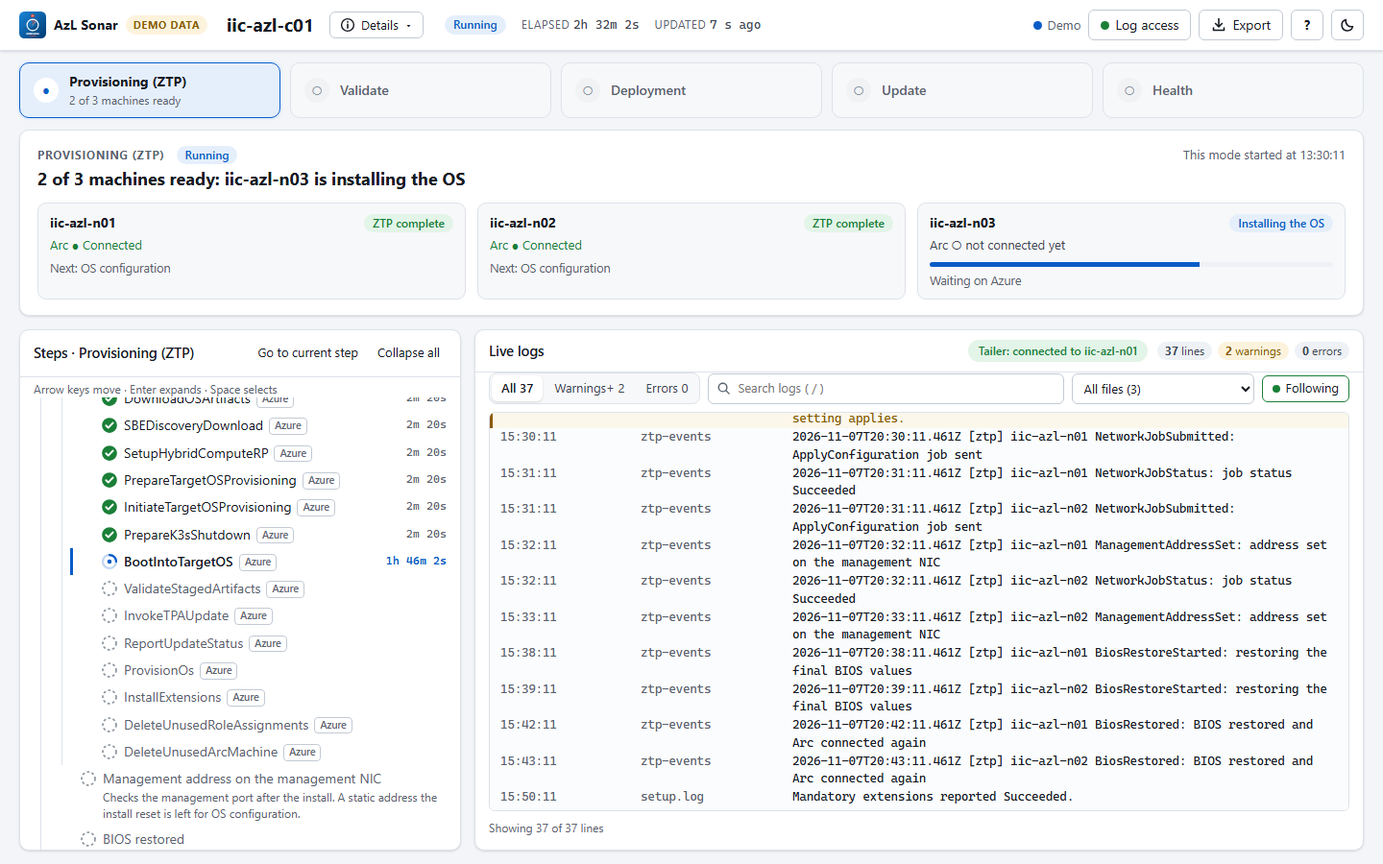
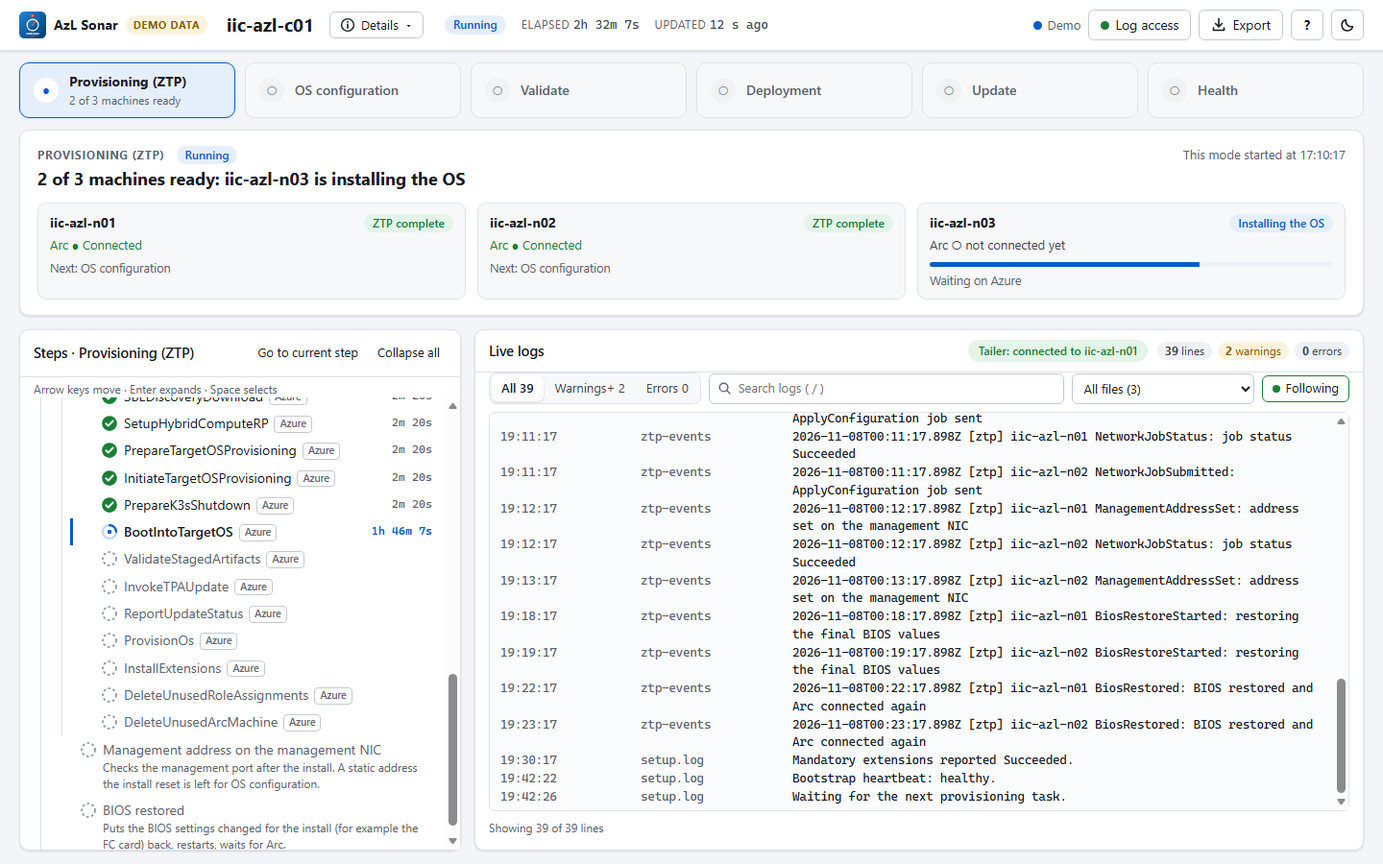
docs(osconfig): the OS configuration mode, method and versions, guarded change, domain join, account per node
stages.md gets an OS configuration section; run, tour, how-it-works, start-here, README and design describe the sixth mode; screenshots tour-osconfig, tour-main and tour-narrow from headless Edge.

diff --git a/docs/stages.md b/docs/stages.md
@@ -103,14 +103,67 @@ The screens below use the page's own demo data (`?demo=1&route=simplified`); see
 
 **In Sonar:** `StageCompleted` for Handoff, and the end of the run on the page: when every machine is Provisioned, its Network step succeeded and its Restore step succeeded or is not applicable, each card reads **ZTP complete** with *Next: OS configuration*, the Provisioning tile reads *ZTP complete*, and the summary says "ZTP is complete: all N machines are provisioned. Next: OS configuration". A link under the header opens the OS configuration guide.
 
-**What to do:** nothing in Sonar. ZTP's job is over. Start OS configuration (OEM drivers, `C:\SBE`, DHCP off, DNS and time, the deployment admin), then Validate. Sonar stays at **ZTP complete** until you start the ARM Validate.
+**What to do:** nothing in Sonar. ZTP's job is over. Start OS configuration (OEM drivers, `C:\SBE`, DHCP off, DNS and time, the deployment admin), then Validate. Sonar stays at **ZTP complete** until the OS configuration run starts and writes its events (the **OS configuration** mode takes over), then Validate.
+
+## OS configuration
+
+![The OS configuration mode: a ZTP machine that converged after a retry, an ISO machine whose drivers step failed, and a ZTP machine still applying](images/tour-osconfig.png)
+
+**The toolkit does:** [azurelocal-toolkit's](https://github.com/AzureLocal/azurelocal-toolkit) `Invoke-AzureLocalOsConfiguration.ps1` configures the operating system of every node after ZTP (or an ISO install) and before Validate: remote management, the management address, DNS, time, the computer name, the domain join, unused adapters, the local administrator, MPIO and the SAN checks, the storage wipe, the SBE package and the OEM drivers, and, for an ISO machine, the Azure Arc registration. It plans first (read only), applies node by node and then proves each node matches the master file. While it runs it appends what it does to the OS configuration event file, `os-configuration-events.jsonl` (the feed is described in the toolkit's [OS configuration guide](https://github.com/AzureLocal/azurelocal-toolkit/blob/main/docs/os-configuration-and-arm-deployment.md#the-event-feed-what-the-run-tells-a-viewer)).
+
+**How to run Sonar for it:** point Sonar at that file and start it where the file is (or where its folder is shared).
+
+```powershell
+Connect-AzAccount -Tenant <tenant-id>
+./Start-AzlSonar.ps1 -InfrastructureFile ./infrastructure.yml
+```
+
+With the master file the file is `<provisioning.simplified.evidence_path>/os-configuration-events.jsonl`, next to `ztp-events.jsonl`. If the toolkit run was given `-EventLogPath`, or you use a config file, set [`osConfigEventsPath`](./config.md) (`Set-AzlSonarConfig -Key osConfigEventsPath -Value <file>`). Sonar tails the file every 2 seconds, read-only. Without it the **OS configuration** tile stays grey and says how to get the data.
+
+**In Sonar:** the **OS configuration** tile (between **Provisioning** and **Validate**), the **OS configuration** mode and its lines in the log pane (file `os-config-events`, each tagged `[osconfig]`).
+
+- **The summary box.** The run in one sentence (*1 of 3 machines converged*), then the run state, the machines converged, the wipe list (*pending* until the listed machines have cleared their storage) and the mode (Plan or Apply). One card per machine: its name, a state chip, the method chip and the transport, the step it is on, the retries and restarts, the account that reads its logs and any warning.
+- **The Steps box.** One row per machine with its method, transport, versions and the guarded network change; under it, its steps in the order the toolkit runs them: remote management, network, DNS, time, computer name, domain join, unused adapters, local administrator, MPIO, SAN verification, clear storage, SBE package, OEM drivers and Azure Arc registration. Each step has a stage chip and the toolkit's own text: what it found and, for a change, *current -> desired*. A click on a step shows only that machine's lines for that step in the log pane. A step that runs as an Arc Run Command carries the **Azure** badge; under the machine, Sonar shows the run command it reads from Azure (`machines/{name}/runCommands`, read-only) with its state and age, and warns when one has been *Creating* for more than 10 minutes.
+
+**What the stages mean.**
+
+| Stage | Meaning |
+| --- | --- |
+| *Waiting* | The run has not reached this step on this machine. |
+| *Planned* | The plan found a difference (`StepPlanned`, action Change); the *current* and *desired* values are in the text. Nothing was changed. |
+| *OK* | The plan found nothing to change. |
+| *Changing* | The apply is changing it now (`StepApplying`). |
+| *Applied* | The apply reports it done (`StepApplied`); the verification pass has not confirmed it yet. |
+| *Verified* | The verification pass found the step matching the master file (`StepVerified`). |
+| *Failed* | The apply or the verification pass failed on it (`StepFailed`), with the toolkit's reason. |
+| *Blocked* | The plan cannot go on without you (for example leftover storage with the wipe off). |
+| *Not applicable* | The step does not apply, with the reason (*not selected with -Step*, *no SBE bundle*, *the storage wipe is off*, *the identity design is local*). |
+| *Verify only: OK* | ZTP did this step (the computer name, the Azure Arc registration); the run checks it and does not change it. |
+
+A machine is **converged** when the toolkit reports `NodeConverged` for it. The mode is **ready** when every machine has converged: the tile reads *3 of 3 converged* and the summary says *Next: Validate*. It is information only: Sonar blocks nothing, and **Provisioning** never stays *running* because of OS configuration. Validate says it starts after OS configuration has converged on every machine.
+
+**Which method, which versions.** Each machine says how it was installed: **ZTP** (provisioned by simplified machine provisioning) or **ISO** (installed by hand). Before the run has resolved it, Sonar shows the method it expects (from `scenario.os_install` and from whether ZTP events exist for the machine) marked *expected*. When the declaration and the evidence disagree the chip says *differs from the file* and a warning names both; the evidence wins, as it does in the toolkit. The step list follows the method: on a ZTP machine the computer name and the Arc registration are *verify only*, on an ISO machine they are real steps. A mixed cluster shows both side by side. The machine row and **Details** show the versions the toolkit reported: the OS (caption, version, build) and the computer name the node reported, the SBE (publisher, family, version, package and how it reaches the node), the master file's `schema_version` and the toolkit's own version, and the transport (Arc Run Command or WinRM, per machine and per step).
+
+**The guarded network change.** Changing the management address can cut a node off, so the toolkit applies it as a *commit confirmed* change: the node snapshots itself, applies, checks itself, and reverts on its own unless the orchestrator confirms in time. Sonar shows it on the **Network** step and the machine: *Staged*, *Checking the node* (`NetworkChangeVerifying`), *Waiting for the confirmation* (`NetworkChangeAwaitingConfirm`, with the time left in the window, ten minutes by default), *Committed*, *Repaired* (with the repair rung) and, when it did not hold, *Rolled back* or *Refused* with the **reason the node gives**. A rolled-back or refused change turns the machine red; read the reason, fix the address, the gateway or the VLAN, and run the OS configuration again.
+
+**The domain join and the account for the logs.** In an Active Directory design the `DomainJoin` step joins each node to the domain after its name, network, DNS and time (`DomainJoinPlanned`, `DomainJoinApplying`, `DomainJoined`, `DomainAdminsConfigured`, or `DomainJoinFailed` with the AD error text). Sonar reads a node's logs with the local account (`identity.local_admin`, for example `azl-admin`) until the node has reported both `DomainJoined` and `DomainAdminsConfigured` (the step that adds the LCM user, or the listed principals, to the node's local Administrators: before that a domain account cannot read the logs). In between the card says *joined, waiting for domain administrators*. After both, Sonar uses the domain account `NETBIOS\username` of the LCM user (`identity.active_directory.lcm_user`, or the optional `domain_join_account` override), its password read from the Key Vault reference in the file. If the node refuses the domain account, Sonar goes back to the local one and warns. The account in use and why (*domain-joined: using IIC\svc-join*, *workgroup: using azl-admin*) is on each card, in the Log access window and in **Details**; the password is never shown. See [Log access](./log-access.md#which-account-reads-which-node-local-first-then-the-domain-account).
+
+**Done:** every card reads *Converged* and the tile is green. **Failed:** a machine reads *Failed*, *Blocked*, *Rolled back* or *Refused*, the tile turns red and the summary names the machine. **Retrying, not a problem:** an Arc Run Command that ends in state `Unknown` (the node's agent lost its connection, for example while its network changes) is run again up to three times; the card says *Retrying* and counts the tries, and the verification pass decides the outcome, not the command's status.
+
+**What to do when a step is stuck.**
+
+1. Open the machine's steps. The step in *Changing* is the one running; its time is the time since it began. A step that has run much longer than its neighbours is the one to look at.
+2. Look under the machine for the **run command** line. *Creating* for more than 10 minutes means Azure has not handed the command to the node's agent: check that the machine is *Connected* in Azure Arc, and that nothing blocks its outbound connection. A run command that is *Running* for long can simply be a long step (the SBE package, the drivers).
+3. Read the lines of that step in the log pane (click the step). A `NodeRetry` line says the command was lost and is being tried again; three of them in a row end in the verification pass, which reads the node again.
+4. If the step failed, the card and the step carry the toolkit's reason. Fix the cause on the node, then run `Invoke-AzureLocalOsConfiguration.ps1` again: steps that are already right are not repeated.
+5. If the run itself died (no `RunCompleted` line, the last event is old), the machines stay where they were. Start the toolkit run again; its next `RunStarted` clears the machines it names and the page follows the new run.
 
 ## After ZTP
 
 | Next step | In Sonar | How to run it |
 | --- | --- | --- |
-| OS configuration | Not followed. The page stays at *ZTP complete*. | Leave Sonar running, or start it again later. |
-| **Validate** | The **Validate** mode: Azure's validation steps (`deploymentSettings`), the running step with a live timer, errors expanded. Node logs from the seed node. | `./Start-AzlSonar.ps1 -InfrastructureFile ./infrastructure.yml -Credential (Get-Credential)` with the deployment local admin. [Details](./run.md#watch-os-configuration-and-validate). |
+| **OS configuration** | The **OS configuration** mode: a card per machine, its steps, the method and versions, the guarded network change and the domain join. | The toolkit's `Invoke-AzureLocalOsConfiguration.ps1`, with Sonar pointed at its event file (`osConfigEventsPath`). [Details](#os-configuration). |
+| **Validate** | The **Validate** mode: Azure's validation steps (`deploymentSettings`), the running step with a live timer, errors expanded. Node logs from the seed node. | `./Start-AzlSonar.ps1 -InfrastructureFile ./infrastructure.yml -Credential (Get-Credential)` with the deployment local admin. [Details](./run.md#watch-os-configuration). |
 | **Deployment** | The **Deployment** mode: the nested step tree, the live logs, the account and folders in **Log access**. | The same command. [Details](./run.md#watch-a-deployment). |
 | **Update** | The **Update** mode: the update run's steps. | `track: update`, or `auto` when Azure reports an update. [Details](./run.md#follow-an-update). |
 | **Health** | The **Health** mode: each machine's Arc status. Sonar runs no health checks. | Any run on a deployed cluster. [Details](./run.md#look-at-a-deployed-cluster-health). |

diff --git a/docs/design.md b/docs/design.md
@@ -81,6 +81,8 @@ Uses the signed-in Az PowerShell context (`Invoke-AzRestMethod`). Every `pollSec
 | `percent` | Sonar's estimate: Creating 0, AwaitingConnection 5, Provisioning 15, ReadyForOs 25, InstallingOs 25 + 70 × finished/reported job steps (max 95), Provisioned 100 (95 with `ztpEventsPath` until `ztp.complete`). `reportedPercent` is the job's `percentComplete` (recorded responses showed 50 both mid-run and after success, so it is not drawn) | finished leaf steps / leaf steps (bootstrap + Azure registration, plus the update once it started), at most 99 until Registered (100) |
 | `extensions` | from the edge machine's `reportedProperties.extensionProfile.extensions` (by the extension resource name), informational | empty: the extensions are in `extensions` (top level), read once a validation exists; each extension a step `ext.<name>` (`properties.provisioningState`, start `systemData.createdAt`, end `systemData.lastModifiedAt` or `instanceView.status.time`, error `instanceView.status.message`) |
 
+**`osConfiguration`** (internal to the page; built from the OS configuration event file, `Get-AzlSonarOsConfigurationState`): `{ configured, status (notstarted|running|success|error), state (waiting|planning|planned|applying|converged|failed|incomplete), ready, run { started, completed, mode, exitCode, planCompleted, planChanges, cluster, schemaVersion, wrapperVersion, lastEventAt, events }, nodesTotal, nodesConverged, nodesFailed, nodesRetrying, wipe { published, enabled, count, pending, nodes[] }, nodes[], warnings[] }`. `nodes[]`: `{ name, method (Ztp|Iso), methodSource (resolved|expected), methodNote, declared, declaredMethod, mismatch, transport, evidence { handoff, arc, winrm }, warnings[], versions { hostname, osVersion, build, osCaption, sbePublisher, sbeFamily, sbeVersion, sbePackage, sbeDelivery, schemaVersion, wrapperVersion }, status (notstarted|running|success|error), state (waiting|planning|planned|applying|retrying|reconnecting|awaitingconfirm|verifying|converged|failed|blocked|rolledback|refused), stateText, currentStep, retries, restarts, changes, blocked, errors[], attempt, start, end, lastEventAt, domainJoined, logAccount { kind (local|domain), userName, reason, warning }, guarded, guardedDetail, runCommands[], tree[] }`. `tree` has one item per step (14, in display order) with `osc { step, stage (waiting|planned|ok|info|changing|applied|verified|failed|blocked|skipped|rolledback|refused), action, verifyOnly, notApplicable, current, desired, transport, arc, guarded }`. OS configuration is ready when every node has `NodeConverged`; it never changes `provisioning.status`. A node's attempt restarts on its next `NodeStarted` and a `RunStarted` with a `nodes` array clears exactly those nodes (by line order, not by clock). The account reading a node's logs is local until the node has reported both `DomainJoined` and `DomainAdminsConfigured`, then the domain account of the LCM user (or the optional `domain_join_account` override); in between `logAccount.waitingForAdmins` is true. Never a password in any served field.
+
 `provisioning.status` rolls the machines up: error if any, success when all, running when any running or done, else notstarted. `provisioning.readyForValidate` is true on the OEM image route when every machine is registered and no validation exists; it is always false on the simplified route. `provisioning.ztpComplete` is true on the simplified route with `ztpEventsPath` when every machine has `ztp.complete`: ZTP is done, and `provisioning.nextStep` is `{ name: 'OS configuration', guide: 'https://azurelocal.cloud' }` (else `null`). Timestamps `0001-01-01T00:00:00Z` mean "not set" and the `MM/dd/yyyy HH:mm:ss` form some job steps use is read as UTC. The response shapes are the recorded live responses of the 10 Oct 2026 simplified provisioning run (`tests/fixtures`); the OEM image shapes follow the HybridCompute REST reference and are not yet checked live.
 
 ### Lag, update track and deployment shape (hardening 2610)
@@ -183,7 +185,7 @@ The recorder polls the shared table every 500 ms (state version, tailer version,
 
 ## Page
 
-Top bar: brand, cluster name, **ⓘ Details** (the `/api/details` pop-down), a status chip (*Running*, *Done*, *Failed*, *Waiting*), elapsed time, "updated N s ago", the connection, **Log access** (a button with a dot: green live, amber Azure only, red none; it opens the Log access window), Export, **?** (the Help box: version and links from `/api/about`, then the license and copyright text) and the theme toggle. Below it the **mode bar**: five equal tiles (Provisioning (ZTP) or (OS image) by route, Validate, Deployment, Update, Health) each with a status icon and a state line; a waiting tile is grey with a tooltip that says when it starts; the five tiles are always shown (a run with no machine data has a grey Provisioning tile whose tooltip says so). The summary box and the Steps box show the selected mode (the active one by default). The summary has one card per machine (full name, plain-word state, Arc, what it waits on, progress); a card filters the steps and logs to that machine. Notes under the bar explain what the step list alone would hide (Azure lagging behind the node, the Environment Checker stage, the REST-reference-only tracks, and when ZTP is complete a link to the OS configuration guide, whose URL comes from `provisioning.nextStep.guide` because the web files carry none).
+Top bar: brand, cluster name, **ⓘ Details** (the `/api/details` pop-down), a status chip (*Running*, *Done*, *Failed*, *Waiting*), elapsed time, "updated N s ago", the connection, **Log access** (a button with a dot: green live, amber Azure only, red none; it opens the Log access window), Export, **?** (the Help box: version and links from `/api/about`, then the license and copyright text) and the theme toggle. Below it the **mode bar**: six equal tiles (Provisioning (ZTP) or (OS image) by route, OS configuration, Validate, Deployment, Update, Health) each with a status icon and a state line; a waiting tile is grey with a tooltip that says when it starts; the six tiles are always shown (a run with no machine data has a grey Provisioning tile whose tooltip says so). The summary box and the Steps box show the selected mode (the active one by default). The summary has one card per machine (full name, plain-word state, Arc, what it waits on, progress); a card filters the steps and logs to that machine. Notes under the bar explain what the step list alone would hide (Azure lagging behind the node, the Environment Checker stage, the REST-reference-only tracks, and when ZTP is complete a link to the OS configuration guide, whose URL comes from `provisioning.nextStep.guide` because the web files carry none).
 
 **Modes.** A mode maps onto the phase the back end reports (`phase` / `activePhase`) and the section that holds its data: Provisioning = `provisioning` (named after the route), Validate = `validation` (and the OEM route's `extensions`), Deployment = `deployment`, Update = `update`, Health = a finished cluster (the machines' Arc status; Sonar runs no health checks). A failed run stays on the mode that failed. The tile line is *N of M machines ready* / *Step n of m* / *Passed* / *Done*; a waiting tile has none. Azure's raw lifecycle values become plain words on the cards (*Installing the OS*, *Waiting to connect to Azure*); the raw value is the tooltip.
 
@@ -206,7 +208,7 @@ The page follows these mockups, approved by the owner. They are a static HTML fi
 | Mockup | What it fixes in the design |
 | --- | --- |
 | [sonar-ux-mockup.html](./design/sonar-ux-mockup.html) | The interactive mockup: every state of the page (ZTP running, deployment, failed, no log access) |
-| [mockup-1-main.png](./design/mockup-1-main.png) | Top bar with the status chip, elapsed time and *updated N s ago*; five equal mode tiles; the summary with a card per machine and full machine names; the Steps box (descriptions, **Azure** badges) and the Live logs box (All / Warnings+ / Errors, search, file filter), both filling the window and scrolling inside |
+| [mockup-1-main.png](./design/mockup-1-main.png) | Top bar with the status chip, elapsed time and *updated N s ago*; six equal mode tiles; the summary with a card per machine and full machine names; the Steps box (descriptions, **Azure** badges) and the Live logs box (All / Warnings+ / Errors, search, file filter), both filling the window and scrolling inside |
 | [mockup-2-log-access.png](./design/mockup-2-log-access.png) | Log access as a window with a tab for every phase (Provisioning, Validation, Deployment, Post-deployment, Update, Add node, Repair) |
 | [mockup-3-details.png](./design/mockup-3-details.png) | The Details pop-down: Target, Mode, Nodes, Sources, Config, each value with where it came from |
 | [mockup-4-help.png](./design/mockup-4-help.png) | The `?` box: version, documentation links, and "Released under the MIT License. Copyright © Hybrid Cloud Solutions & AzureLocal" |

diff --git a/README.md b/README.md
@@ -1,6 +1,6 @@
 # AzL Sonar
 
-**Real-time monitor for Azure Local deployments.** Follow a deployment while it runs: how each machine gets ready (simplified machine provisioning or OEM image + Arc registration), every validation and deployment step and its status, and the live deployment logs from the seed node, in a modern local web view. PowerShell back end; nothing to install. Read-only towards Azure and the nodes. Record a run to a local file and replay it later, time-scrubbed, through the same page.
+**Real-time monitor for Azure Local deployments.** Follow a deployment while it runs: how each machine gets ready (simplified machine provisioning or OEM image + Arc registration), how its operating system is configured (method, steps, retries, the guarded network change, the domain join), every validation and deployment step and its status, and the live deployment logs from the seed node, in a modern local web view. PowerShell back end; nothing to install. Read-only towards Azure and the nodes. Record a run to a local file and replay it later, time-scrubbed, through the same page.
 
 Beacon checks the environment before deployment. Sonar listens to the deployment as it happens.
 
@@ -45,7 +45,7 @@ Then pick what you want to do:
 | --- | --- |
 | Watch a ZTP run, per machine | [docs/run.md](docs/run.md#watch-a-ztp-run) |
 | Watch the OEM image or ISO route | [docs/run.md](docs/run.md#watch-the-oem-image-or-iso-route) |
-| Watch OS configuration and Validate | [docs/run.md](docs/run.md#watch-os-configuration-and-validate) |
+| Watch OS configuration and Validate | [docs/run.md](docs/run.md#watch-os-configuration) |
 | Watch a deployment (steps, logs, WinRM or SSH) | [docs/run.md](docs/run.md#watch-a-deployment) |
 | Understand each ZTP stage (Boot, Bootstrap, Vouchers and claim, Install OS, Device, Network, Restore, Handoff) | [docs/stages.md](docs/stages.md) |
 | Which account and folders read the logs in each phase (the Log access window) | [docs/log-access.md](docs/log-access.md) |
@@ -148,7 +148,7 @@ There is nothing to install: no service, no database, no build step.
 | `-Publishable` | off | With `-Record`: also replace every identifier with a stable pseudonym, so the recording can be shared. Needs a new file. See [Share a recording](#share-a-recording-publishable). |
 | `-ExtraTerm` | (none) | With `-Publishable`: extra strings that must never appear (a company or site name). |
 
-Add `?demo=1` to the page URL to see the page with built-in sample data (a running deployment). `?demo=1&route=simplified` is a ZTP run of three machines (example names `iic-azl-n01` to `n03`): two are done, the third is installing the OS, and the ZTP events are in the logs. `?demo=1&route=oem` shows two machines registering on the OEM image route (one updating its OS image, in `Download`; one bootstrapping, in `ArcConfiguration > ArcRegistration`). `?demo=1&replay=1` plays the demo deployment as a built-in recording, so you can try the replay controls without a file. Add `#details`, `#logaccess` or `#help` to open the Details pop-down, the Log access window or the Help box. Demo mode makes no API call of its own; when a Sonar back end serves the page it reads `/api/about` and `/api/guidance` only, to show the real version, links and phase guidance.
+Add `?demo=1` to the page URL to see the page with built-in sample data (a running deployment). `?demo=1&route=simplified` is a ZTP run of three machines (example names `iic-azl-n01` to `n03`): two are done, the third is installing the OS, and the ZTP events are in the logs. `?demo=1&route=osconfig` is an OS configuration run of three machines: a ZTP machine that converged after one retry, an ISO machine whose drivers step failed, and a ZTP machine still applying. `?demo=1&route=oem` shows two machines registering on the OEM image route (one updating its OS image, in `Download`; one bootstrapping, in `ArcConfiguration > ArcRegistration`). `?demo=1&replay=1` plays the demo deployment as a built-in recording, so you can try the replay controls without a file. Add `#details`, `#logaccess` or `#help` to open the Details pop-down, the Log access window or the Help box. Demo mode makes no API call of its own; when a Sonar back end serves the page it reads `/api/about` and `/api/guidance` only, to show the real version, links and phase guidance.
 
 ## Record and replay
 
@@ -239,6 +239,7 @@ Unknown fields are ignored. Sonar validates the file at start and lists every pr
 | `credential.usernameSecret` | for `keyvault` | | Secret that holds the user name. |
 | `credential.passwordSecret` | for `keyvault` | | Secret that holds the password. |
 | `credential.password`, `.secret`, `.secretValue` | never | | Rejected: secrets never go in the config file. |
+| `osConfigEventsPath` | no | (none) | The event file of the toolkit's OS configuration run (`Invoke-AzureLocalOsConfiguration.ps1`; JSON Lines with `timestamp`, `node`, `stage`, `step`, `state`, `evidence`, `level`, `nextAction`, `method`, `transport`). Sonar follows it and builds the **OS configuration** mode from it. Relative to the config file. See [OS configuration](docs/stages.md#os-configuration). |
 | `recordPath` | no | (none) | Record every run to this file, as with `-Record` (which overrides it). Relative to the config file. See [Record and replay](#record-and-replay). |
 | `ztpEvents.path` | no | (none) | The event file of the [azurelocal-ztp](https://github.com/AzureLocal/azurelocal-ztp) provisioning scripts (JSON Lines: `timestamp`, `node`, `state`, `evidence`, `nextAction`, `level`, `stage`). Sonar follows it and shows each event in the log pane. Relative to the config file. See [Follow ZTP provisioning](#follow-ztp-provisioning). |
 

diff --git a/docs/how-it-works.md b/docs/how-it-works.md
@@ -15,6 +15,7 @@ Sonar has three parts (four while it records a run, see [Record and replay](#rec
    - **OEM image + Arc registration** (phase *Arc registration*): no edge machines. The node is registered with `Invoke-AzStackHciArcInitialization` and its Arc machine carries the host name. Sonar shows what the registration does, per machine: the **OS image update** (zero-day solution update, only when the OEM image is not the latest: Scan, Download, Install; 40-45 minutes, then a reboot) and the **Bootstrap** (NetworkConfig ... ArcConfiguration > ArcRegistration, ArcExtensionInstall), both read on the node with `Get-ArcZeroDaySolutionUpdateStatus` and `Get-ArcBootstrapStatus` by the node probe, and the **Azure registration** (the Arc machine appears and turns `Connected`). A node that reboots shows *Rebooting / unreachable since*; when every machine is registered the status reads *Ready for Validate*. The four mandatory extensions (`AzureEdgeDeviceManagement`, `AzureEdgeLifecycleManager`, `AzureEdgeRemoteSupport`, `AzureEdgeTelemetryAndDiagnostics`) install during Validate, so they appear only then, in their own *Extensions (installed during Validate)* group.
 
    When validation starts, the page moves on to the Validate mode; the Provisioning tile stays and can be clicked to look at the machines again.
+   **OS configuration** (between Provisioning and Validation, from the toolkit's event file): once ZTP is done, or an ISO install is in place, the toolkit configures each node. The page follows it per machine, with the method (ZTP or ISO), the transport and the versions, 14 steps (the computer name and Arc registration are verify-only on a ZTP machine), the retries and restarts, the guarded network change and the domain join. It is ready when every machine has converged; it never keeps Provisioning running. See [stage by stage](./stages.md#os-configuration).
 2. **Validation**: every validation step with its status, times, duration and errors.
 3. **Deployment**: every deployment step and sub-step, with the live logs from the seed node.
 4. **Done** or **Failed**: the deployment succeeded, or the active phase reported an error (the failed step's exception text is shown inline; a failed machine counts during provisioning and Arc registration, and the chip says which phase failed).
@@ -73,8 +74,10 @@ Sonar only reads. Everything it takes from Azure, the nodes and the BMC is in th
 | **Nodes (WinRM or SSH)** | The deployment log files on the seed node | A read-only script per poll: it lists the `logs.paths` folders and tails growing files | Every `logs.pollSeconds` |
 | | Arc registration status on each node, OEM-image route only: `Get-ArcBootstrapStatus` and `Get-ArcZeroDaySolutionUpdateStatus` | The two local PowerShell cmdlets of the node, with `-ErrorAction SilentlyContinue` | Only while Arc registration runs |
 | **This workstation** | WinRM `TrustedHosts` | Reads it and tells you; never sets it | At start |
-| **Key Vault** | The log account's user name and password, only with `credential.source` `keyvault` | `Get-AzKeyVaultSecret`, held in memory | Once, at start |
+| **Key Vault** | The log account's user name and password, only with `credential.source` `keyvault`; and the domain account's password, the `keyvault://` reference of `identity.active_directory.domain_join_account.password`, only after a node reports `DomainJoined` | `Get-AzKeyVaultSecret`, held in memory as a secure string and masked everywhere | Once, at start; the domain password once, at the first `DomainJoined` |
 | **ZTP event file** | The events a ZTP run appends (`ztpEvents.path`) | Reads the local file, shared with the writer | Every 2 seconds |
+| **OS configuration event file** | The events the toolkit's OS configuration run appends: the run, each node's method and versions, each step's plan and result, retries, the guarded network change, the domain join (`osConfigEventsPath`) | Reads the local file, shared with the writer; a node's attempt restarts on its next `NodeStarted` line | Every 2 seconds |
+| **Azure Arc run commands** | The OS configuration run commands of a node being configured over Arc Run Command (`Microsoft.HybridCompute/machines/{name}/runCommands`): name, state, age; one stuck in *Creating* for 10 minutes is flagged | `GET` (read-only), only for a node with a running attempt over Arc Run Command; unverified against a live run | Every `pollSeconds` while it runs |
 | **BMC (Redfish)** | Nothing | Sonar makes no Redfish call. The ZTP stages that use Redfish are in the ZTP [API reference](https://github.com/AzureLocal/azurelocal-ztp/blob/main/docs/appendix/api-reference.md). | |
 | **Configurator app service (TCP 20001)** | Nothing | Sonar does not call the maintenance environment's REST service. ZTP's Device stage does ([the Configurator app API](https://github.com/AzureLocal/azurelocal-ztp/blob/main/docs/appendix/configurator-app-api.md)). The two node cmdlets above are the local PowerShell front end of the same bootstrap service on an installed OS. | |
 

diff --git a/docs/tour.md b/docs/tour.md
@@ -2,7 +2,7 @@
 
 What is on the page, top to bottom. The screenshots are Sonar's own demo data (`?demo=1&route=simplified`: three machines of a ZTP run, example names only). Everything on the page is read-only.
 
-![The page during a ZTP run: top bar, the five modes, the summary with a card per machine, the steps and the live logs](images/tour-main.png)
+![The page during a ZTP run: top bar, the six modes, the summary with a card per machine, the steps and the live logs](images/tour-main.png)
 
 ## The top bar
 
@@ -30,13 +30,14 @@ The **ⓘ Details** button opens a pop-down that answers "what is Sonar actually
 
 Secrets are never shown: a credential appears only as *set* or *not set*, and the subscription id only as its first 8 characters. The same data is served at `/api/details` (read-only, this machine only).
 
-## The five modes
+## The six modes
 
-The row under the top bar has one tile per mode: **Provisioning (ZTP)**, **Validate**, **Deployment**, **Update**, **Health**. Each has a status icon (✓ done, a pulsing ● running, ○ waiting, ✕ failed), the name and a state line such as *2 of 3 machines ready*, *Step 3 of 7*, *Done* or *Passed*.
+The row under the top bar has one tile per mode: **Provisioning (ZTP)**, **OS configuration**, **Validate**, **Deployment**, **Update**, **Health**, six equal tiles. Each has a status icon (✓ done, a pulsing ● running, ○ waiting, ✕ failed), the name and a state line such as *2 of 3 machines ready*, *Step 3 of 7*, *Done* or *Passed*.
 
 - The tile of the mode that is happening now is selected when the page opens. Click any tile to look at another mode: the summary box and the Steps box switch to it.
 - A tile that has not started is grey and has no state line. Hover it to see when it starts (*Starts after validation passes*).
-- There are always five tiles. On the OEM image route the first tile reads **Provisioning (OS image)** instead of *Provisioning (ZTP)*. A run Sonar joined after provisioning has no machine data: the first tile is grey and its hover text says so (Sonar cannot tell whether provisioning was done, so it does not tick it).
+- **OS configuration** sits between Provisioning and Validate. It shows *2 of 3 converged* (and *1 retrying*) while the toolkit's run works, turns red when a machine fails, and is green only when every machine has converged; a finished plan with changes pending reads *Plan ready* and stays grey. Without `osConfigEventsPath` it is grey and the hover text says how to get its data. The page opens on it once ZTP is complete and an OS configuration run has started. [What it shows](stages.md#os-configuration)
+- There are always six tiles. On the OEM image route the first tile reads **Provisioning (OS image)** instead of *Provisioning (ZTP)*. A run Sonar joined after provisioning has no machine data: the first tile is grey and its hover text says so (Sonar cannot tell whether provisioning was done, so it does not tick it).
 
 ## The summary box
 
@@ -67,6 +68,12 @@ When a filter shows nothing, the pane says why. A step that has produced no line
 ![The Log access window](images/tour-log-access.png)
 
 The **Log access** button opens a window with everything about reading the node logs: the identity, the status line (*Log access: Tailing node …, as supplied, last line 4 s ago*), and one tab per phase (Provisioning, Validation, Deployment, Post-deployment, Update, Add node, Repair, with *(current phase)* on the active one). For each phase: **Account**, **Where** (every folder), **When**, **How**, **This deployment**, **Confidence** and **Source**. Confidence says whether the entry was confirmed on a live deployment; if the logs are not where an unconfirmed entry says, please open an issue on GitHub. Close it with **Close**, `Esc` or a click outside.
+
+## The OS configuration mode
+
+![The OS configuration mode](images/tour-osconfig.png)
+
+Between Provisioning and Validate. The summary has a card per machine: the method chip (**ZTP** or **ISO**, *expected* until the run resolves it, *differs from the file* with a warning when the master file says otherwise), the transport, the step it is on, *Retried* and *Restarted* counts, the account that reads its logs, and, during a guarded network change, the time left to confirm. The Steps box has the machine's steps with a stage chip each (*Planned*, *OK*, *Changing*, *Applied*, *Verified*, *Failed*, *Blocked*, *Not applicable*) and the toolkit's text; the **Azure** badge marks a step that runs as an Arc Run Command. **Details** lists the method, transport and versions of every machine. The full description is [here](stages.md#os-configuration). The screenshot is the demo (`?demo=1&route=osconfig`).
 
 ## Help box
 

diff --git a/docs/run.md b/docs/run.md
@@ -45,9 +45,26 @@ Connect-AzAccount
 
 **Access:** Reader on the resource group; WinRM (5985/5986) or SSH to each node from the Sonar workstation with an account in the node's local Administrators (the built-in `Administrator` works while machines register); an IP address or workgroup node must be in this workstation's `TrustedHosts` (Sonar checks and tells you, it never changes it).
 
-## Watch OS configuration and Validate
+## Watch OS configuration
 
-**What Sonar does here.** Sonar does not follow the OS configuration scripts themselves (OEM drivers, `C:\SBE`, DHCP off, DNS, time, the deployment admin). On the simplified route the page stays at **ZTP complete** with the note that OS configuration is next. Start Sonar again, or leave it running, and when you start the ARM Validate the page switches to the **Validation** phase: Azure's validation step tree (`deploymentSettings`), each step with status, start, end, duration and error text, the running step with a live timer.
+**When:** after ZTP (or an ISO install) and before Validate, the toolkit's `Invoke-AzureLocalOsConfiguration.ps1` configures every node.
+
+```powershell
+Connect-AzAccount -Tenant <tenant-id>
+./Start-AzlSonar.ps1 -InfrastructureFile ./infrastructure.yml
+```
+
+The event file is `<provisioning.simplified.evidence_path>/os-configuration-events.jsonl` in the master file, next to the ZTP event file; with a config file or when the toolkit run was given `-EventLogPath`, set `osConfigEventsPath`. Start Sonar on the machine that runs the toolkit (or where that folder is shared).
+
+**What Sonar shows:** the **OS configuration** mode: a card per machine (method ZTP or ISO, transport, the step it is on, converged, failed or retrying), the run in one sentence with the wipe list, and the machine's steps with the toolkit's text (*current -> desired*), retries, restarts, the guarded network change with its countdown, the domain join, and the versions. The `[osconfig]` lines are in the log pane (file `os-config-events`). The stages, the method and version display, what a stuck step looks like and what to do are in [Running Sonar, stage by stage](./stages.md#os-configuration).
+
+**What to expect:** the plan fills every machine's steps first (read only, nothing changes), then the apply moves node by node, then the verification marks the steps *Verified* and the machine *Converged*. A run in Plan mode ends with *Plan finished: N changes pending. Nothing was changed.* and the tile stays grey.
+
+**Access:** Reader on the resource group (Sonar reads the Arc machines' run commands, read-only, to show their state); the log account as in [Log access](./log-access.md#which-account-reads-which-node-local-first-then-the-domain-account): the local administrator until a node is domain-joined, then the domain account.
+
+## Watch Validate
+
+**What Sonar does here.** When you start the ARM Validate the page switches to the **Validation** phase: Azure's validation step tree (`deploymentSettings`), each step with status, start, end, duration and error text, the running step with a live timer. The **Validate** tile says it starts after OS configuration has converged on every machine; that is information, not a gate.
 
 ```powershell
 ./Start-AzlSonar.ps1 -InfrastructureFile ./infrastructure.yml -Credential (Get-Credential)   # the deployment local admin

diff --git a/docs/start-here.md b/docs/start-here.md
@@ -6,7 +6,7 @@ Pick what you want to do. Each purpose has its own section in [Running Sonar](./
 | --- | --- |
 | Watch a ZTP run (simplified machine provisioning), machine by machine | [Watch a ZTP run](./run.md#watch-a-ztp-run) |
 | Watch machines come up from an OEM image or an ISO and register with Arc | [Watch the OEM image or ISO route](./run.md#watch-the-oem-image-or-iso-route) |
-| Follow OS configuration, then the Validate step in Azure | [Watch OS configuration and Validate](./run.md#watch-os-configuration-and-validate) |
+| Follow OS configuration, then the Validate step in Azure | [Watch OS configuration and Validate](./run.md#watch-os-configuration) |
 | Follow a deployment: step tree, live logs from the seed node | [Watch a deployment](./run.md#watch-a-deployment) |
 | Understand one ZTP stage: Boot, Bootstrap, Vouchers and the claim, Install OS, Device, Network, Restore, Handoff | [Running Sonar, stage by stage](./stages.md) |
 | Know which account and folders read the logs in each phase, and how Sonar reaches the node | [Log access](./log-access.md) |
@@ -20,7 +20,7 @@ Pick what you want to do. Each purpose has its own section in [Running Sonar](./
 
 ## What you will see
 
-A top bar (cluster, status, **Details**, **Log access**), one tile per mode (Provisioning, Validate, Deployment, Update, Health), a summary with a card per machine, the steps of the selected mode and the live logs. The [tour of the page](tour.md) explains each part with screenshots; **Details** in the top bar shows what Sonar read from your configuration and where it came from.
+A top bar (cluster, status, **Details**, **Log access**), one tile per mode (Provisioning, OS configuration, Validate, Deployment, Update, Health), a summary with a card per machine, the steps of the selected mode and the live logs. The [tour of the page](tour.md) explains each part with screenshots; **Details** in the top bar shows what Sonar read from your configuration and where it came from.
 
 ## Three ways to configure Sonar
 
